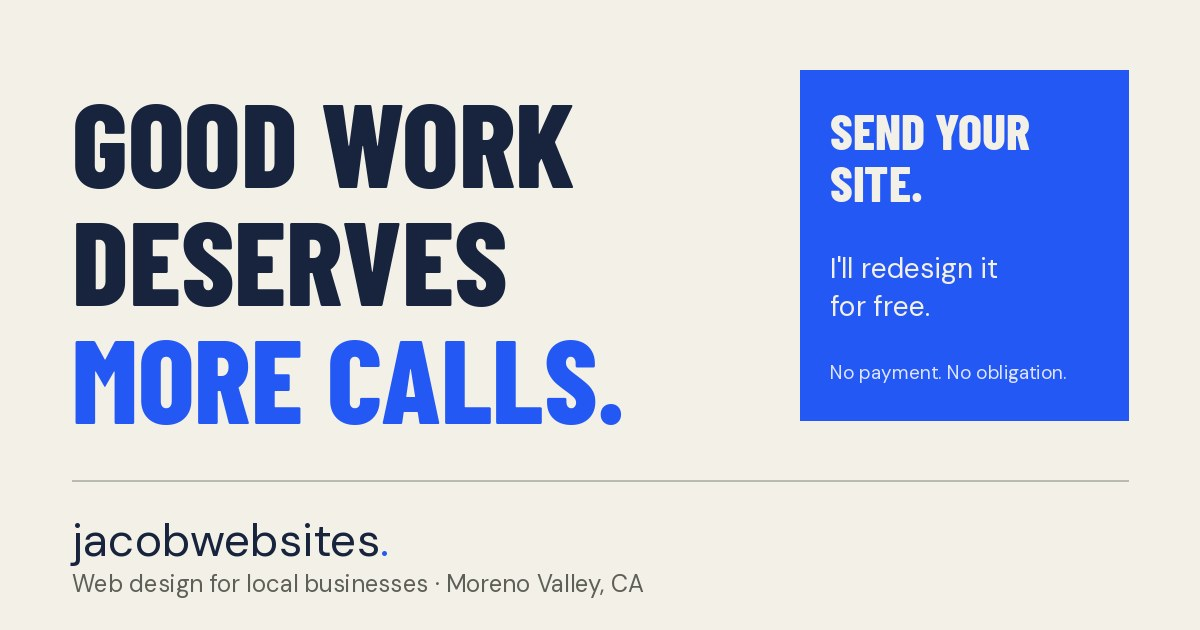
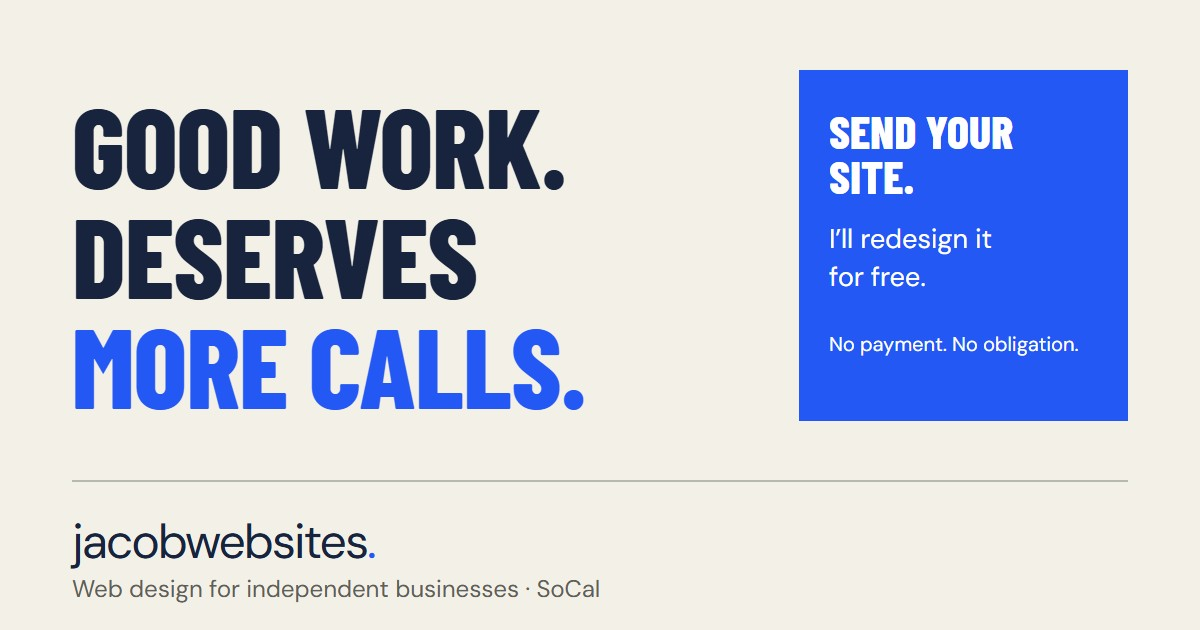
Remove specific location from sharing image and metadata

diff --git a/index.html b/index.html
@@ -32,14 +32,14 @@
     <meta name="twitter:card" content="summary_large_image" />
     <meta
       name="twitter:title"
-      content="Jacob Websites — Web Design for Local Businesses | Moreno SoCal"
+      content="Jacob Websites — Web Design for Local Businesses | SoCal"
     />
     <meta
       name="twitter:description"
       content="Good work deserves more calls. Start with a free homepage mockup."
     />
     <meta name="twitter:image" content="https://jacobwebsites.com/og-image.jpg" />
-    <title>Web Design for Local Businesses in Moreno SoCal | Jacob Websites</title>
+    <title>Web Design for Local Businesses in SoCal | Jacob Websites</title>
     <script>
       try {
         document.documentElement.dataset.theme =

diff --git a/tests/home.spec.js b/tests/home.spec.js
@@ -100,7 +100,7 @@ test("trade demo updates, portrait photo, and free mockup offer", async ({
   await expect(demo).toContainText("Find something worth keeping.");
   await demo.getByRole("button", { name: "Studio", exact: true }).click();
   await expect(demo).toContainText("photographer near me");
-  await expect(page.locator(".portrait img")).toHaveAttribute("src", "/me.webp");
+  await expect(page.locator(".portrait img")).toHaveAttribute("src", "/me.JPEG");
   await expect(page.locator("#contact")).toContainText(
     "A full website build is a separate paid project",
   );
